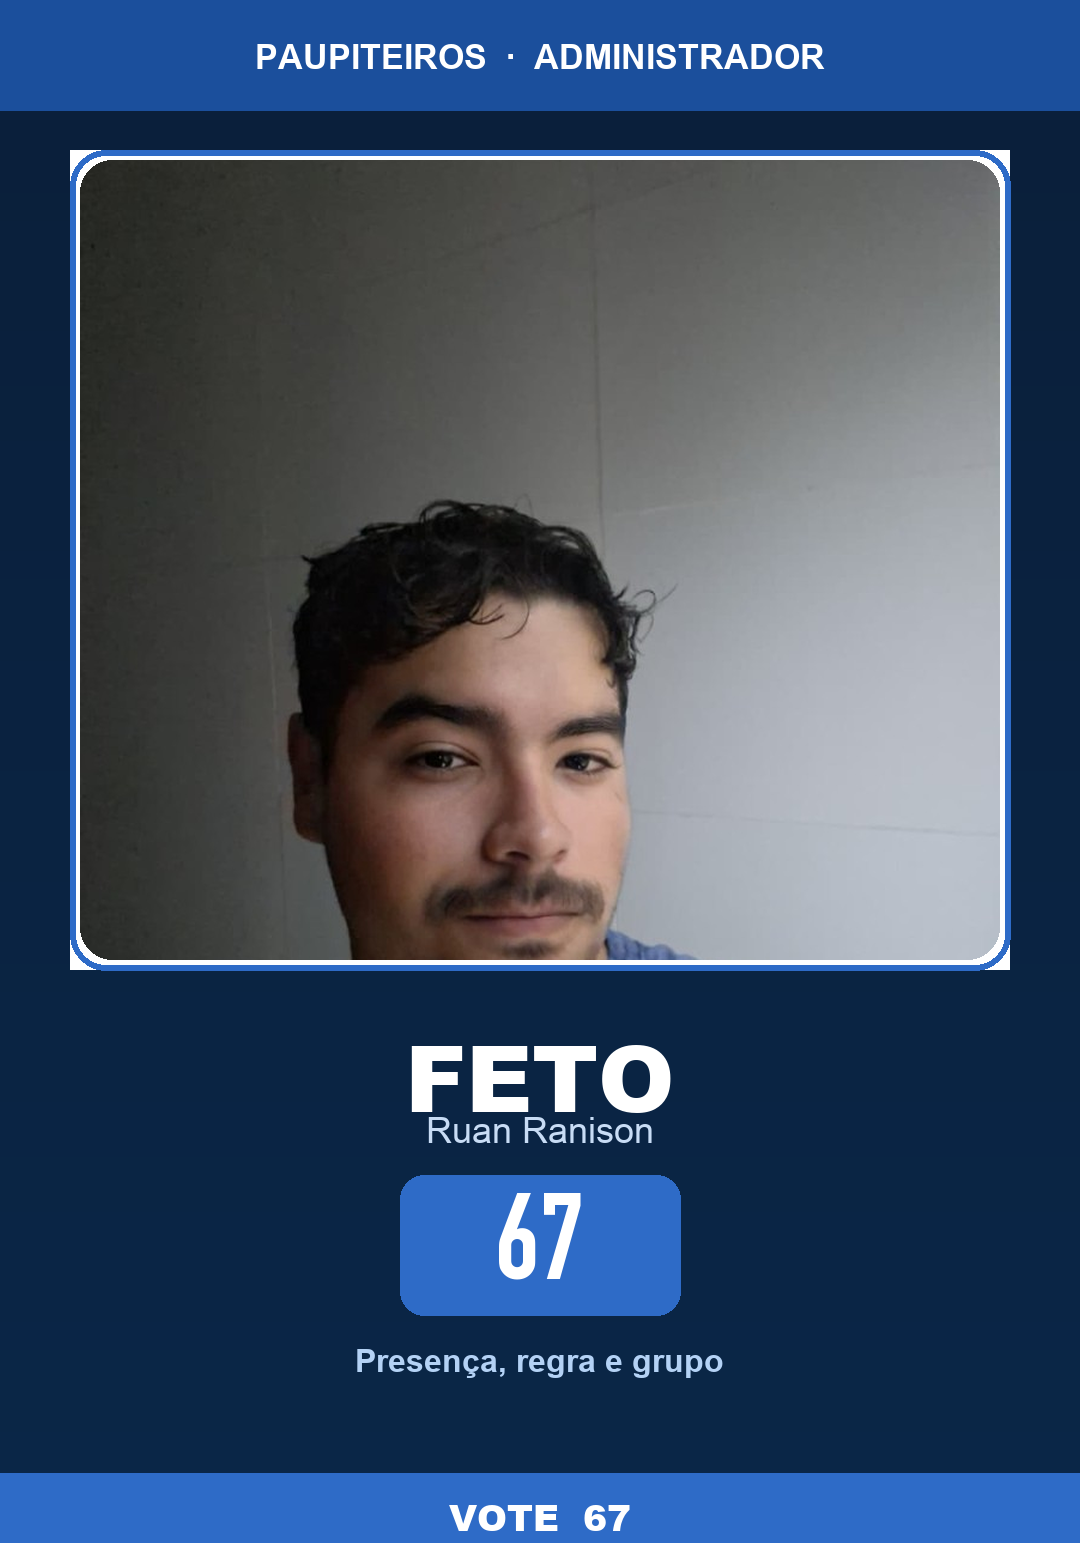
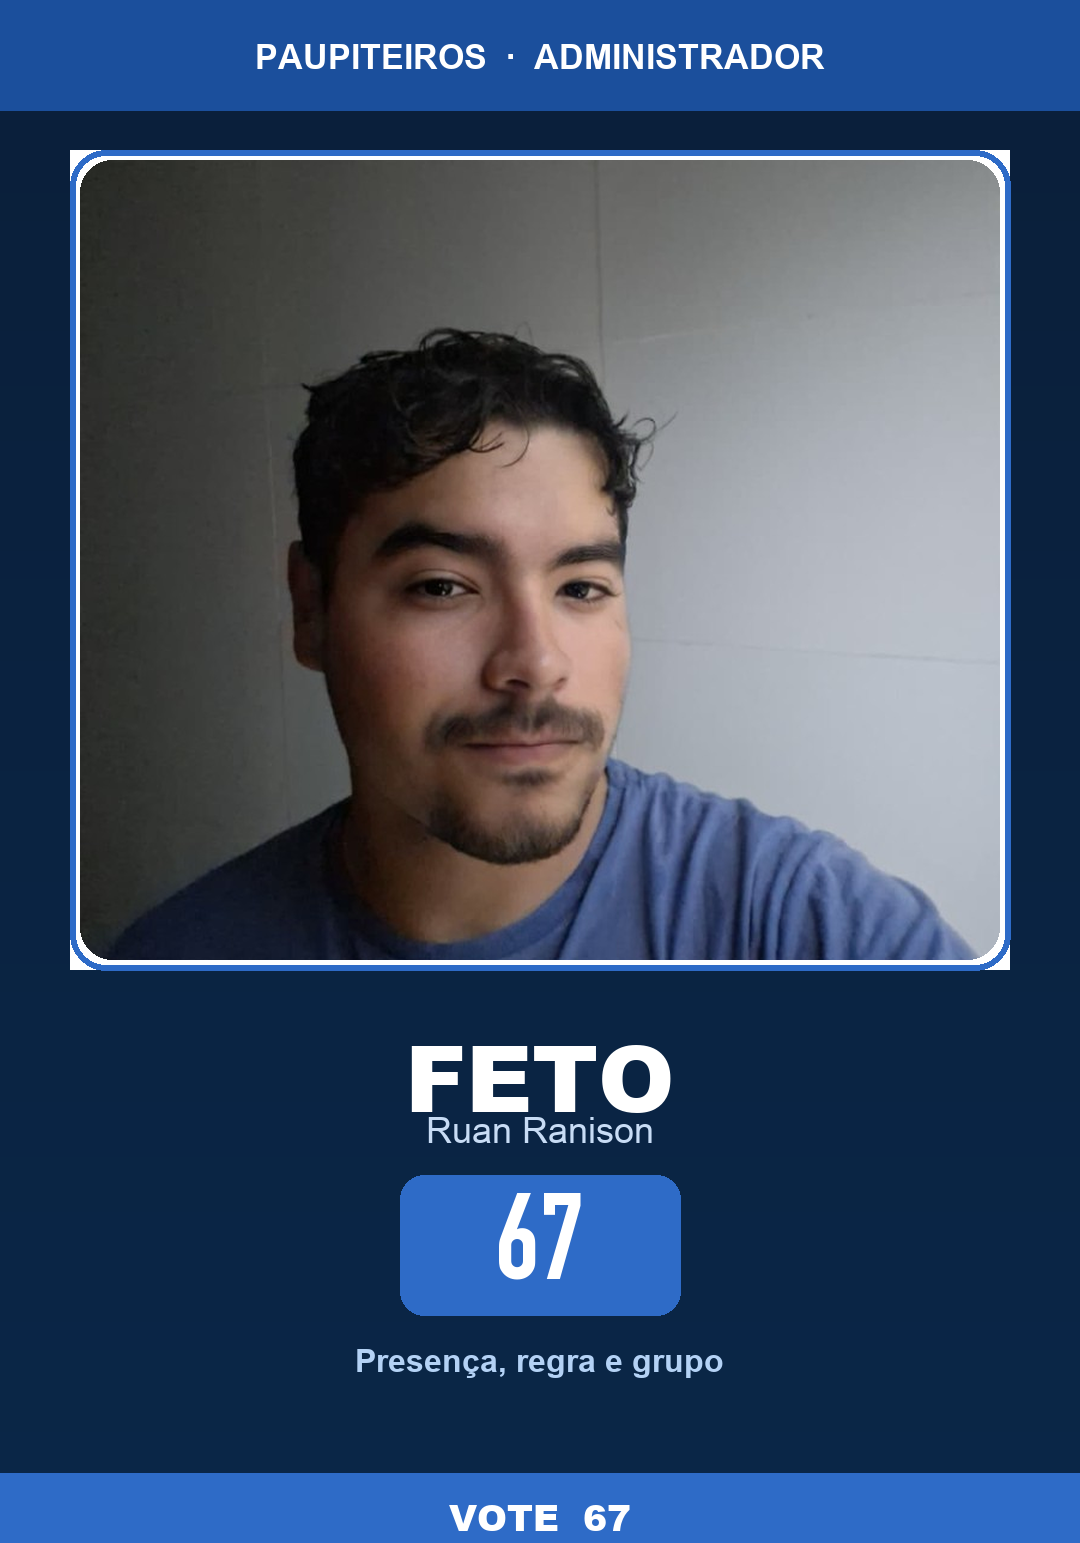
fix: subir enquadramento do rosto nos santinhos

Changed region(s): [[0.0917, 0.0933, 0.9472, 0.6222]]

diff --git a/scripts/gerar_santinhos.py b/scripts/gerar_santinhos.py
@@ -268,7 +268,7 @@ def main():
         antiga,
         OUT / "santinho-foto-antiga-frente.png",
         nova=False,
-        focus=(0.50, 0.38),
+        focus=(0.50, 0.52),
     )
     make_verso(OUT / "santinho-foto-antiga-verso.png", nova=False)
 
@@ -276,7 +276,7 @@ def main():
         nova,
         OUT / "santinho-foto-nova-frente.png",
         nova=True,
-        focus=(0.70, 0.28),
+        focus=(0.68, 0.42),
     )
     make_verso(OUT / "santinho-foto-nova-verso.png", nova=True)
 
